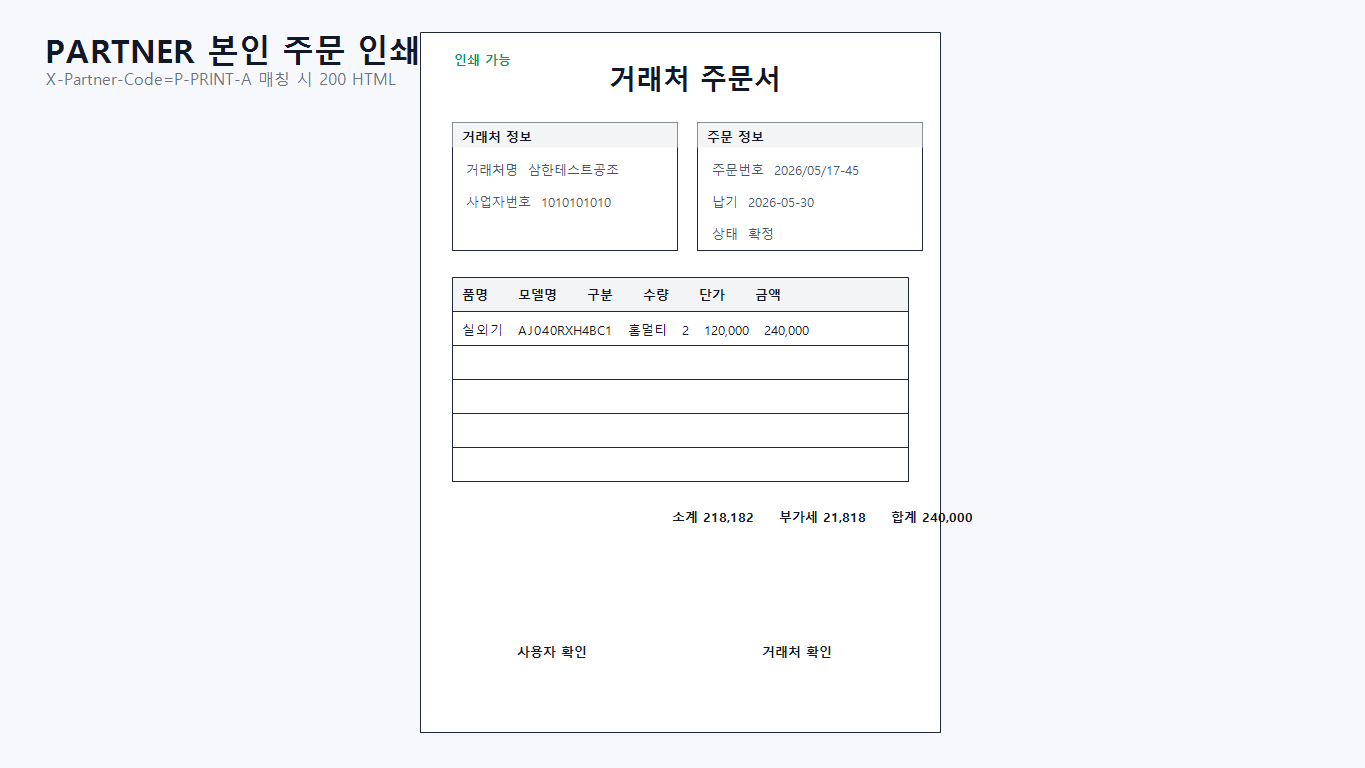
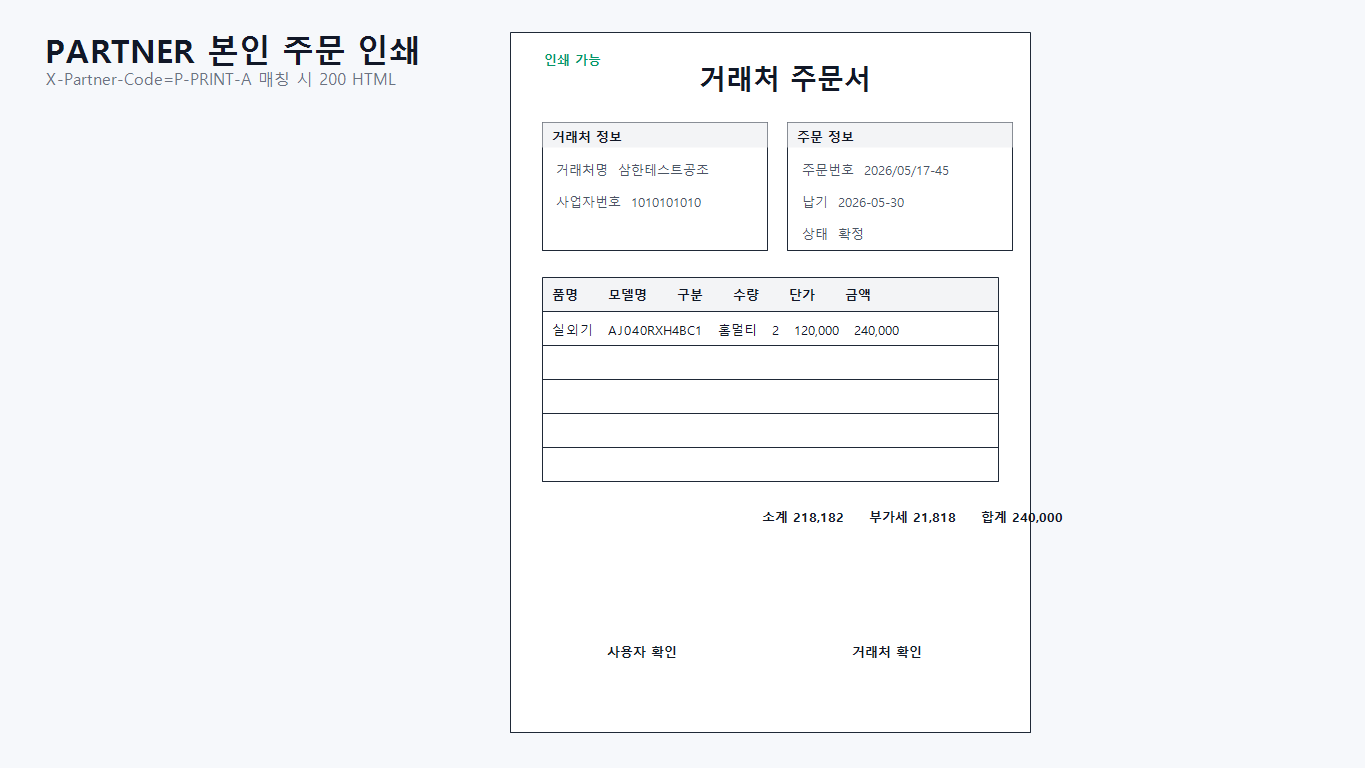
fix(sp-08-4-4): 사이클 1 2c Codex fix — BLOCKER 보안 + CRITICAL UX 해소 (5회차)
Codex 5-agent 2a review 발견 fix.

BE/DevOps BLOCKER (보안 — X-User-Role spoofing):
- PartnerOrderPrintController callerRole 파라미터 제거 (X-User-Role 헤더 미수신)
- PartnerOrderPrintService effectiveRole() 제거, SecurityContextHolder ROLE_PARTNER authority 만 사용
- 회귀 IT testPrintPartnerSpoofedRoleHeaderRejected 신규 (PARTNER 인증 + X-User-Role: SALES 위조 + 타 거래처 → 403 단언, IT 6)

FE CRITICAL (noopener null 충돌):
- handlePrint window.open(url, '_blank') 패턴 (noopener,noreferrer 옵션 제거)
- 반환값 null 시 팝업 차단 한국어 안내 ("팝업이 차단되었습니다. 팝업 허용 후 다시 시도해 주세요.")
- opened.opener = null security hardening

Designer P1 (print pagination):
- BE inline CSS @media print: thead { display: table-header-group }, tfoot, .summary/.memo/.sign-grid { break-inside: avoid }
- 라인 증가 시 합계/요청사항/날인란 페이지 경계 잘림 방지

Designer P2 (PNG 02/03 좌표):
- A4 mock 제목 위치/폭 조정 + PNG 02/03 재생성

skip (후속 슬라이스):
- Designer D5 실제 HTML 렌더 PNG (CI artifact 또는 사용자 Edge 캡처) — feedback_print_design_iteration.md

검증:
- Gradle IT 6 PASS / 0 failed / 0 skipped (Codex sandbox GRADLE_USER_HOME)
- testPrintPartnerSpoofedRoleHeaderRejected RED→GREEN 확인
- Desktop typecheck / lint PASS
- PNG 02/03 재생성 (좌표 조정)
- git diff --check exit 0

연관 PR: #219

diff --git a/clients/desktop/src/renderer/routes/SalesPartnerOrderDetailPage.tsx b/clients/desktop/src/renderer/routes/SalesPartnerOrderDetailPage.tsx
@@ -167,11 +167,16 @@ export function SalesPartnerOrderDetailPage() {
       )
       const blob = new Blob([response.data], { type: 'text/html;charset=UTF-8' })
       const url = URL.createObjectURL(blob)
-      const opened = window.open(url, '_blank', 'noopener,noreferrer')
+      const opened = window.open(url, '_blank')
       if (!opened) {
         URL.revokeObjectURL(url)
-        setPrintErrorMessage('인쇄 창을 열 수 없습니다. 팝업 차단 설정을 확인해 주세요.')
+        setPrintErrorMessage('팝업이 차단되었습니다. 팝업 허용 후 다시 시도해 주세요.')
         return
+      }
+      try {
+        opened.opener = null
+      } catch {
+        // Browser engines can reject opener mutation for special windows.
       }
       setTimeout(() => URL.revokeObjectURL(url), 60_000)
     } catch (error) {

diff --git a/services/partner-order-service/src/main/java/com/samhanair/logis/partnerorder/service/PartnerOrderPrintService.java b/services/partner-order-service/src/main/java/com/samhanair/logis/partnerorder/service/PartnerOrderPrintService.java
@@ -40,21 +40,20 @@ public class PartnerOrderPrintService {
      * 주문번호 또는 내부 UUID 문자열로 인쇄 HTML 을 생성한다.
      *
      * @param id 주문번호 또는 내부 UUID 문자열
-     * @param callerRole 호출자 역할
      * @param callerPartnerCode PARTNER 본인 거래처 코드
      * @return 인쇄 전용 HTML
      */
-    public String renderPrintHtml(String id, String callerRole, String callerPartnerCode) {
+    public String renderPrintHtml(String id, String callerPartnerCode) {
         PartnerOrder order = PartnerOrderIdResolver.findByIdentifier(partnerOrderRepository, id)
                 .orElseThrow(() -> new BusinessException(
                         ErrorCode.PARTNER_ORDER_NOT_FOUND,
                         ErrorCode.PARTNER_ORDER_NOT_FOUND.getDefaultMessage()));
-        assertPartnerOwnOrder(order, effectiveRole(callerRole), callerPartnerCode);
+        assertPartnerOwnOrder(order, callerPartnerCode);
         return render(order);
     }
 
-    private void assertPartnerOwnOrder(PartnerOrder order, String callerRole, String callerPartnerCode) {
-        if (!"PARTNER".equalsIgnoreCase(nullToEmpty(callerRole))) {
+    private void assertPartnerOwnOrder(PartnerOrder order, String callerPartnerCode) {
+        if (!isPartnerAuthority()) {
             return;
         }
         if (callerPartnerCode == null || callerPartnerCode.isBlank()
@@ -63,19 +62,13 @@ public class PartnerOrderPrintService {
         }
     }
 
-    private String effectiveRole(String callerRole) {
-        if (callerRole != null && !callerRole.isBlank()) {
-            return callerRole.trim();
-        }
+    private boolean isPartnerAuthority() {
         var authentication = SecurityContextHolder.getContext().getAuthentication();
         if (authentication == null) {
-            return "";
+            return false;
         }
         return authentication.getAuthorities().stream()
-                .map(authority -> authority.getAuthority().replaceFirst("^ROLE_", ""))
-                .filter(role -> "PARTNER".equalsIgnoreCase(role))
-                .findFirst()
-                .orElse("");
+                .anyMatch(authority -> "ROLE_PARTNER".equals(authority.getAuthority()));
     }
 
     private String render(PartnerOrder order) {
@@ -228,6 +221,10 @@ public class PartnerOrderPrintService {
                     @media print {
                       @page { size: A4; margin: 0; }
                       body { background: #fff; }
+                      thead { display: table-header-group; }
+                      tfoot { display: table-footer-group; }
+                      tr { page-break-inside: avoid; }
+                      .summary, .memo, .sign-grid { break-inside: avoid; }
                       .page {
                         width: 210mm;
                         min-height: 297mm;

diff --git a/services/partner-order-service/src/test/java/com/samhanair/logis/partnerorder/it/PartnerOrderPrintIT.java b/services/partner-order-service/src/test/java/com/samhanair/logis/partnerorder/it/PartnerOrderPrintIT.java
@@ -136,6 +136,19 @@ class PartnerOrderPrintIT extends AbstractPostgresIT {
     }
 
     @Test
+    @WithMockUser(username = "partner-user", roles = {"PARTNER"})
+    void testPrintPartnerSpoofedRoleHeaderRejected() throws Exception {
+        saveOrder("2026/05/17-46", "P-PRINT-OWN", "3030303030", false);
+
+        mockMvc.perform(get("/api/v1/partner-orders/{id}/print", "2026-05-17-46")
+                        .header(HttpHeaderConstants.CALLER_ID_HEADER, "partner-user")
+                        .header(HttpHeaderConstants.CALLER_ROLE_HEADER, "SALES")
+                        .header(HttpHeaderConstants.PARTNER_CODE_HEADER, "P-OTHER"))
+                .andExpect(status().isForbidden())
+                .andExpect(jsonPath("$.code").value("FORBIDDEN"));
+    }
+
+    @Test
     @WithMockUser(username = "manager", roles = {"MANAGER"})
     void testPrintHtmlContentContainsOrderNumber() throws Exception {
         saveOrder("2026/05/17-45", "P-PRINT-C", "5050505050", false);

diff --git a/services/partner-order-service/src/main/java/com/samhanair/logis/partnerorder/web/PartnerOrderPrintController.java b/services/partner-order-service/src/main/java/com/samhanair/logis/partnerorder/web/PartnerOrderPrintController.java
@@ -31,8 +31,7 @@ public class PartnerOrderPrintController {
     @PreAuthorize("hasAnyRole('SALES','MANAGER','MASTER','PARTNER')")
     public String print(
             @PathVariable String id,
-            @RequestHeader(value = HttpHeaderConstants.CALLER_ROLE_HEADER, required = false) String callerRole,
             @RequestHeader(value = HttpHeaderConstants.PARTNER_CODE_HEADER, required = false) String partnerCode) {
-        return printService.renderPrintHtml(id, callerRole, partnerCode);
+        return printService.renderPrintHtml(id, partnerCode);
     }
 }
